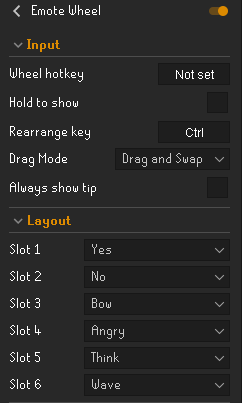
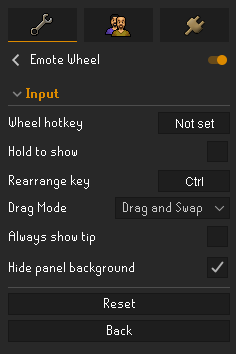
updated ReadMe fixed config png

diff --git a/README.md b/README.md
@@ -5,9 +5,6 @@ Choose up to six favorite emotes (plus an optional **Random** slot) and perform 
 a clean ring. Every click is a genuine click on a genuine RuneScape emote widget, with no
 synthetic input.
 
-On the Resizable - Modern layout you can also **hide the panel background** so the emotes
-float on their own, and manage your favorites from a dedicated **side panel**.
-
 <img width="640" alt="Floating emote wheel" src="images/floating.png" />
 
 ## Features
@@ -38,18 +35,27 @@ float on their own, and manage your favorites from a dedicated **side panel**.
 
 ## The Favorites side panel
 
+<table>
+<tr>
+<td valign="top">
+
 Open the **Emote Wheel** panel from its sidebar icon to build your wheel. Each of the six
 slots is a button - tap one and a list of emotes slides in below it. Pick an emote and the
 list slides closed. Emotes already used in another slot are greyed out, so you can never
 double up. Grab the handle on the left of a slot to drag it and reorder the wheel.
 
-<img width="240" align="right" alt="Favorites side panel" src="images/panel.png" />
-
 You can also set favorites straight from the emote tab: right-click an emote and choose
 **Favorite** to drop it into the first open slot (or pick a slot to replace when all six
 are full). With the wheel open, right-click gives **Remove** to clear a slot.
 
-<img width="640" alt="Right-click to favorite" src="images/favorite.png" />
+</td>
+<td valign="top" width="250">
+<img width="240" alt="Favorites side panel" src="images/panel.png" />
+</td>
+</tr>
+</table>
+
+<img width="700" alt="Right-click to favorite" src="images/favorite.png" />
 
 ## Rearranging the wheel
 
@@ -59,14 +65,6 @@ rearrange.
 
 <img width="640" alt="Rearrange mode" src="images/rearrange.png" />
 
-## Making the emotes bigger
-
-The emote wheel uses the game's real emote widgets, so its size follows the emote panel.
-If you would like the whole interface (emotes included) larger, use the **Stretched Mode**
-plugin, which scales the entire game UI to your window. Combined with **Hide panel
-background** on Resizable - Modern, a bit of upscaling makes for a clean, oversized set of
-floating emotes.
-
 ## Client layouts
 
 The floating look (hidden background, offset wheel) is built for the **Resizable - Modern**
@@ -75,6 +73,15 @@ clean, centered wheel on the normal panel, and the "Hide panel background" optio
 effect there. It all switches automatically when you change your client layout.
 
 <img width="700" alt="The wheel across the client layouts" src="images/layouts.png" />
+
+## Making the emotes bigger
+
+The emote wheel uses the game's real emote widgets, so its size follows the emote panel.
+If you would like the whole interface (emotes included) larger, use the
+[**Stretched Mode**](https://github.com/runelite/runelite/wiki/Stretched-Mode) plugin,
+which scales the entire game UI to your window. Combined with **Hide panel background** on
+Resizable - Modern, a bit of upscaling makes for a clean, oversized set of floating
+emotes.
 
 ## Usage
 
